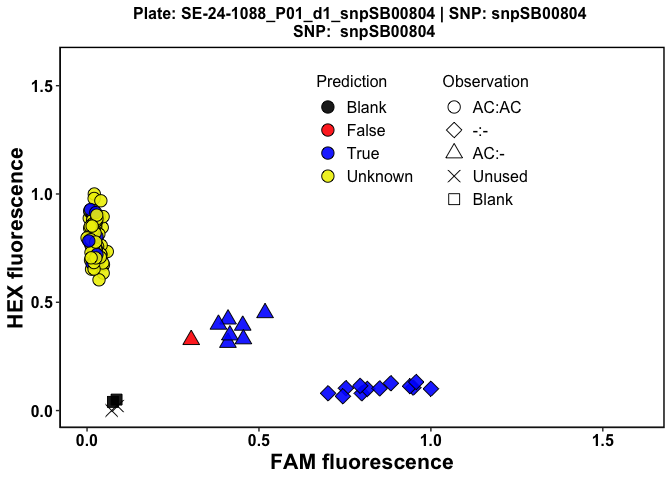
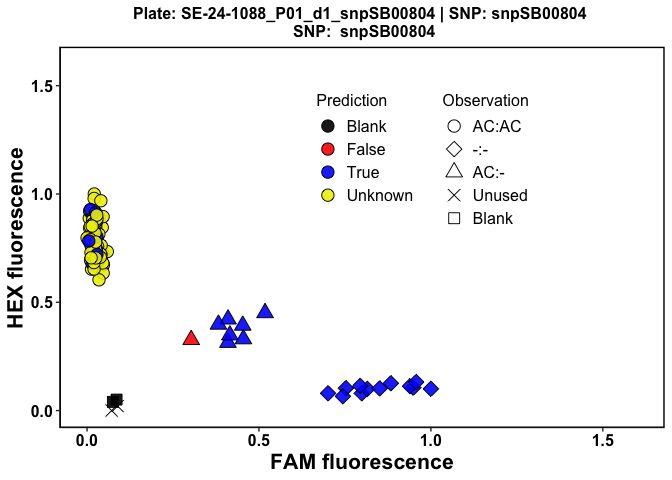
ReadMe updates

Changed region(s): [[0.4688, 0.1562, 0.625, 0.4375], [0.6562, 0.1562, 0.7812, 0.4688]]

diff --git a/README.md b/README.md
@@ -228,7 +228,7 @@ library(panGenomeBreedr)
                   expand_axis = 0.6,
                   alpha = 0.9,
                   legend.pos.x = 0.6,
-                  legend.pos.y = 0.75)
+                  legend.pos.y = 0.7)
 #> $`SE-24-1088_P01_d1_snpSB00804`
 ```
 
